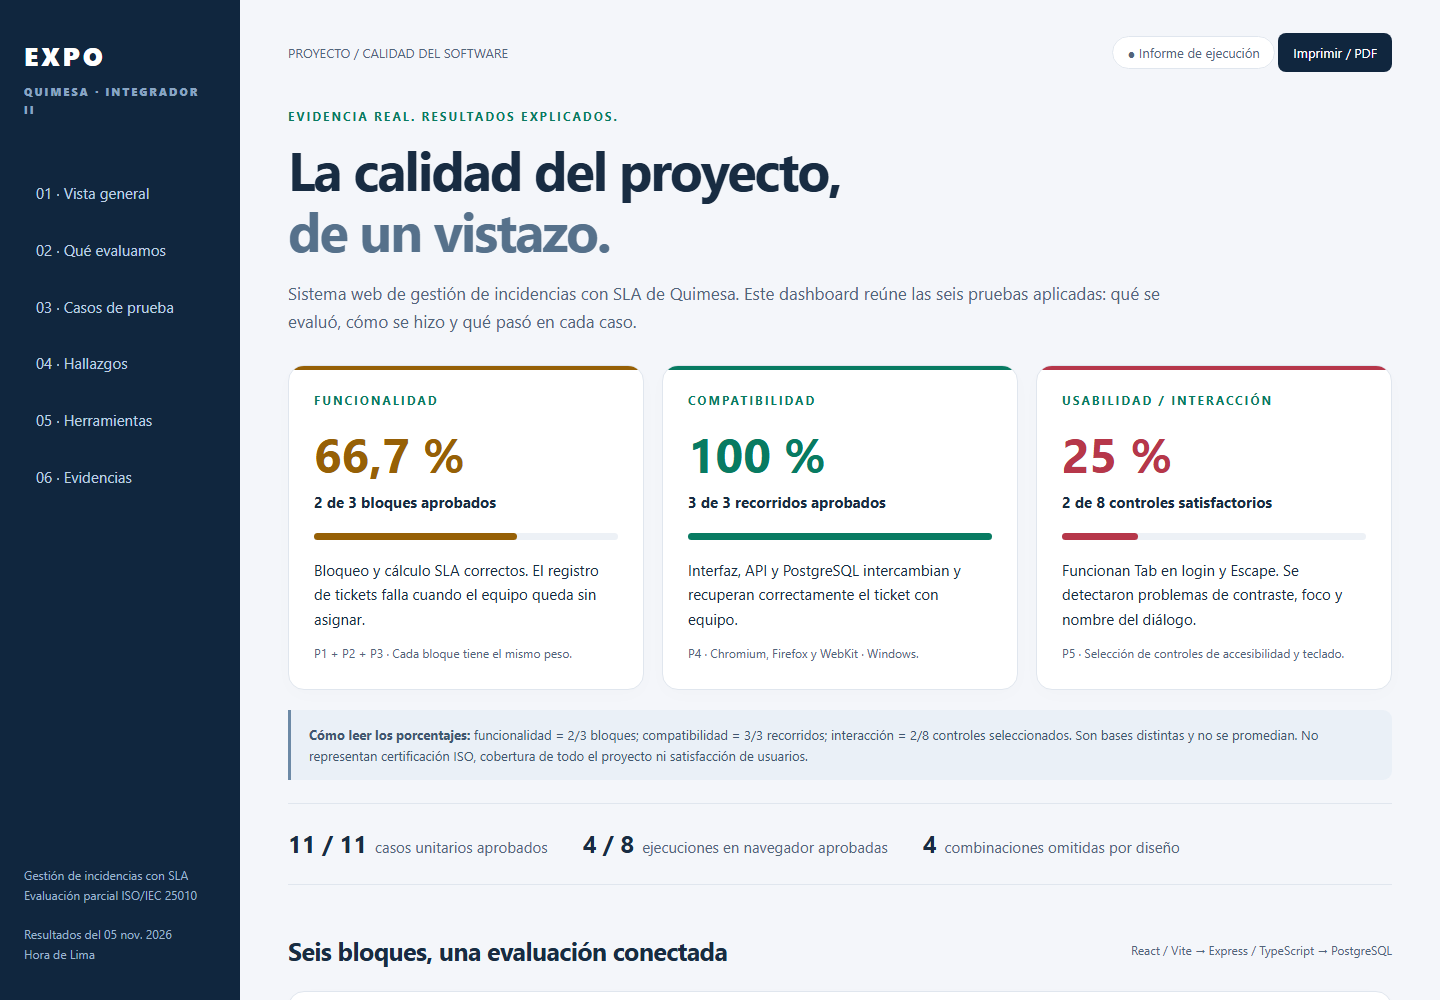
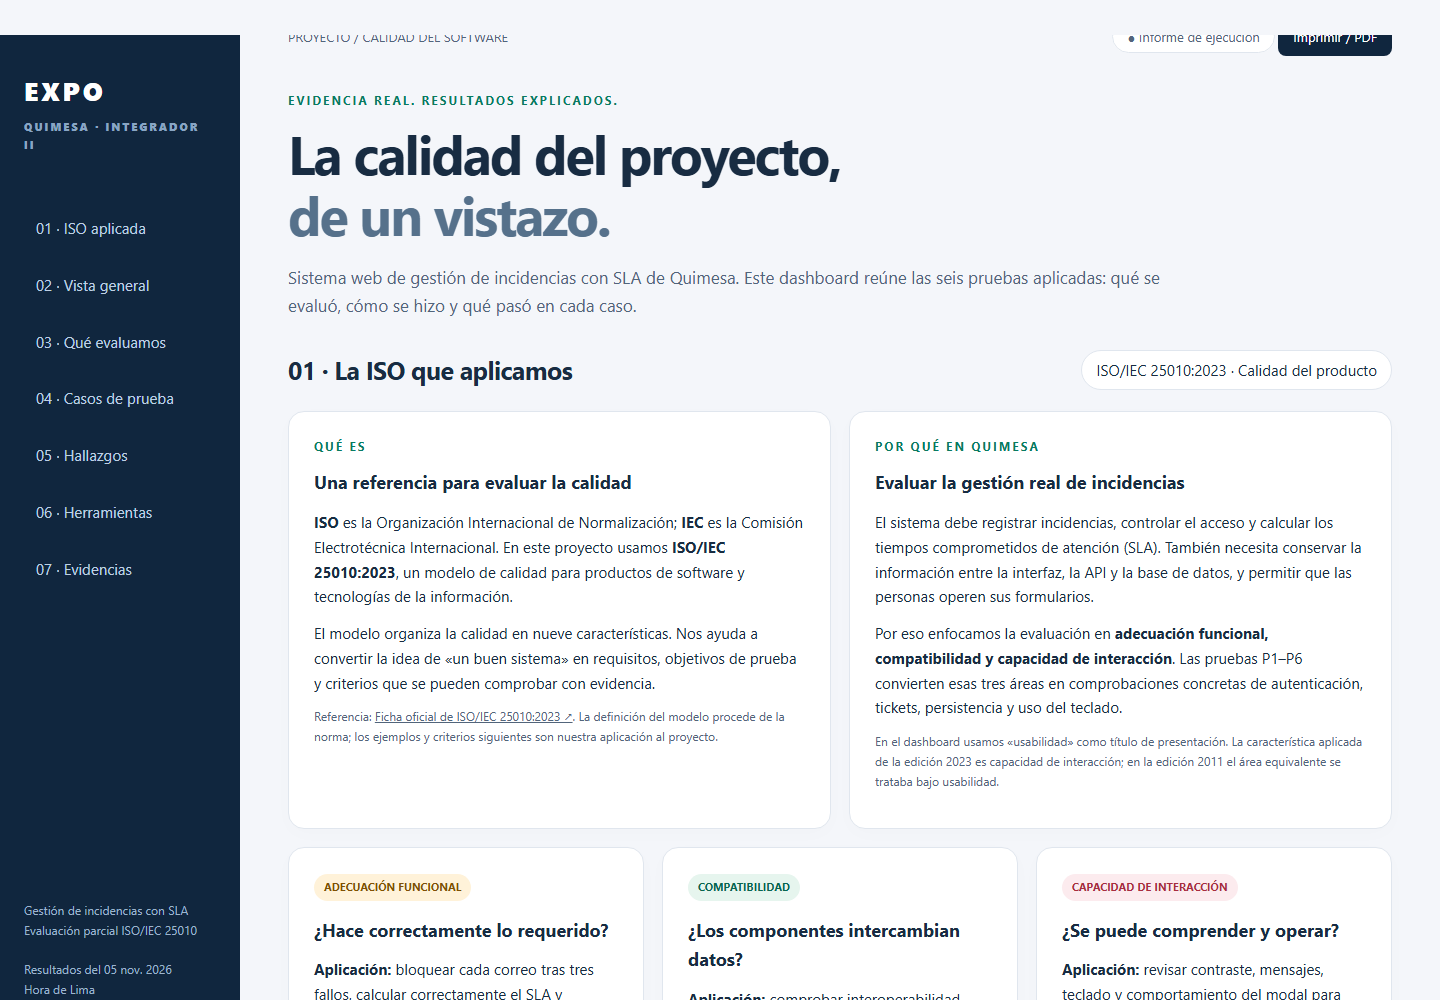
feat:ppt final

diff --git a/PRESENTACION/EXPO.html b/PRESENTACION/EXPO.html
@@ -8,10 +8,24 @@
 </style>
 </head>
 <body>
-<aside><div class="brand">EXPO<small>QUIMESA · INTEGRADOR II</small></div><nav aria-label="Secciones"><a href="#resumen">01 · Vista general</a><a href="#alcance">02 · Qué evaluamos</a><a href="#casos">03 · Casos de prueba</a><a href="#hallazgos">04 · Hallazgos</a><a href="#herramientas">05 · Herramientas</a><a href="#evidencias">06 · Evidencias</a></nav><div class="aside-foot">Gestión de incidencias con SLA<br>Evaluación parcial ISO/IEC 25010<br><br>Resultados del 05 nov. 2026<br>Hora de Lima</div></aside>
+<aside><div class="brand">EXPO<small>QUIMESA · INTEGRADOR II</small></div><nav aria-label="Secciones"><a href="#iso">01 · ISO aplicada</a><a href="#resumen">02 · Vista general</a><a href="#alcance">03 · Qué evaluamos</a><a href="#casos">04 · Casos de prueba</a><a href="#hallazgos">05 · Hallazgos</a><a href="#herramientas">06 · Herramientas</a><a href="#evidencias">07 · Evidencias</a></nav><div class="aside-foot">Gestión de incidencias con SLA<br>Evaluación parcial ISO/IEC 25010<br><br>Resultados del 05 nov. 2026<br>Hora de Lima</div></aside>
 <main>
 <div class="top"><span>PROYECTO / CALIDAD DEL SOFTWARE</span><div><span class="tag">● Informe de ejecución</span> <button class="button" id="print">Imprimir / PDF</button></div></div>
-<header class="hero" id="resumen"><div class="eyebrow">EVIDENCIA REAL. RESULTADOS EXPLICADOS.</div><h1>La calidad del proyecto,<br><span>de un vistazo.</span></h1><p class="lead">Sistema web de gestión de incidencias con SLA de Quimesa. Este dashboard reúne las seis pruebas aplicadas: qué se evaluó, cómo se hizo y qué pasó en cada caso.</p></header>
+<header class="hero"><div class="eyebrow">EVIDENCIA REAL. RESULTADOS EXPLICADOS.</div><h1>La calidad del proyecto,<br><span>de un vistazo.</span></h1><p class="lead">Sistema web de gestión de incidencias con SLA de Quimesa. Este dashboard reúne las seis pruebas aplicadas: qué se evaluó, cómo se hizo y qué pasó en cada caso.</p></header>
+<section id="iso" style="margin-top:25px;margin-bottom:35px" aria-labelledby="iso-title">
+<div class="section-head"><h2 id="iso-title">01 · La ISO que aplicamos</h2><span class="tag">ISO/IEC 25010:2023 · Calidad del producto</span></div>
+<div class="two">
+<article class="card"><div class="eyebrow">QUÉ ES</div><h3 style="margin-top:12px">Una referencia para evaluar la calidad</h3><p><strong>ISO</strong> es la Organización Internacional de Normalización; <strong>IEC</strong> es la Comisión Electrotécnica Internacional. En este proyecto usamos <strong>ISO/IEC 25010:2023</strong>, un modelo de calidad para productos de software y tecnologías de la información.</p><p>El modelo organiza la calidad en nueve características. Nos ayuda a convertir la idea de «un buen sistema» en requisitos, objetivos de prueba y criterios que se pueden comprobar con evidencia.</p><p class="small">Referencia: <a href="https://www.iso.org/standard/78176.html" target="_blank" rel="noopener noreferrer">Ficha oficial de ISO/IEC 25010:2023 ↗</a>. La definición del modelo procede de la norma; los ejemplos y criterios siguientes son nuestra aplicación al proyecto.</p></article>
+<article class="card"><div class="eyebrow">POR QUÉ EN QUIMESA</div><h3 style="margin-top:12px">Evaluar la gestión real de incidencias</h3><p>El sistema debe registrar incidencias, controlar el acceso y calcular los tiempos comprometidos de atención (SLA). También necesita conservar la información entre la interfaz, la API y la base de datos, y permitir que las personas operen sus formularios.</p><p>Por eso enfocamos la evaluación en <strong>adecuación funcional, compatibilidad y capacidad de interacción</strong>. Las pruebas P1–P6 convierten esas tres áreas en comprobaciones concretas de autenticación, tickets, persistencia y uso del teclado.</p><p class="small">En el dashboard usamos «usabilidad» como título de presentación. La característica aplicada de la edición 2023 es capacidad de interacción; en la edición 2011 el área equivalente se trataba bajo usabilidad.</p></article>
+</div>
+<div class="three" style="margin-top:18px">
+<article class="card"><span class="badge finding">ADECUACIÓN FUNCIONAL</span><h3 style="margin-top:15px">¿Hace correctamente lo requerido?</h3><p><strong>Aplicación:</strong> bloquear cada correo tras tres fallos, calcular correctamente el SLA y permitir registrar tickets con datos válidos.</p><p><strong>Evidencia:</strong> P1 (HU01), P2 (HU20) y P3 (HU06–HU07); P6 aporta observaciones exploratorias.</p><p class="small">Criterio del proyecto: 4/4 casos de bloqueo, 7/7 de SLA y recorrido funcional completo en los tres motores. El defecto sin equipo impide aprobar P3.</p></article>
+<article class="card"><span class="badge pass">COMPATIBILIDAD</span><h3 style="margin-top:15px">¿Los componentes intercambian datos?</h3><p><strong>Aplicación:</strong> comprobar interoperabilidad entre React, Express y PostgreSQL: crear un ticket y recuperarlo después de recargar.</p><p><strong>Evidencia:</strong> P4, repetida en Chromium, Firefox y WebKit como comprobación complementaria entre motores.</p><p class="small">Criterio del proyecto: HTTP 201, datos coincidentes en SQL y ticket visible tras recargar en 3/3 recorridos con equipo. No se evaluó toda la coexistencia.</p></article>
+<article class="card"><span class="badge fail">CAPACIDAD DE INTERACCIÓN</span><h3 style="margin-top:15px">¿Se puede comprender y operar?</h3><p><strong>Aplicación:</strong> revisar contraste, mensajes, teclado y comportamiento del modal para que las tareas puedan realizarse de forma accesible.</p><p><strong>Evidencia:</strong> P5 con axe y controles de teclado; P6 con observación del bloqueo y pantalla pequeña.</p><p class="small">Criterio del proyecto: cero hallazgos axe serios/críticos en las vistas analizadas y gestión correcta del foco. Hay mejoras pendientes; no se midió satisfacción humana.</p></article>
+</div>
+<div class="note"><strong>Cómo la aplicamos:</strong> requisito del sistema → característica de calidad → caso de prueba → resultado esperado → evidencia → mejora. ISO/IEC 25010 orienta la evaluación; no obliga a usar Vitest o Playwright ni fija nuestros porcentajes. Este trabajo evalúa un alcance parcial y no constituye una certificación.</div>
+</section>
+<div class="section-head" id="resumen"><h2>02 · Resultados de la evaluación</h2><span class="small">Resumen de las tres áreas seleccionadas</span></div>
 <div class="metrics">
 <article class="card metric" style="--tone:var(--amber)"><div class="eyebrow">FUNCIONALIDAD</div><div class="value">66,7 %</div><strong>2 de 3 bloques aprobados</strong><div class="bar"><i style="width:66.667%"></i></div><p>Bloqueo y cálculo SLA correctos. El registro de tickets falla cuando el equipo queda sin asignar.</p><div class="small">P1 + P2 + P3 · Cada bloque tiene el mismo peso.</div></article>
 <article class="card metric" style="--tone:var(--green)"><div class="eyebrow">COMPATIBILIDAD</div><div class="value">100 %</div><strong>3 de 3 recorridos aprobados</strong><div class="bar"><i style="width:100%"></i></div><p>Interfaz, API y PostgreSQL intercambian y recuperan correctamente el ticket con equipo.</p><div class="small">P4 · Chromium, Firefox y WebKit · Windows.</div></article>
